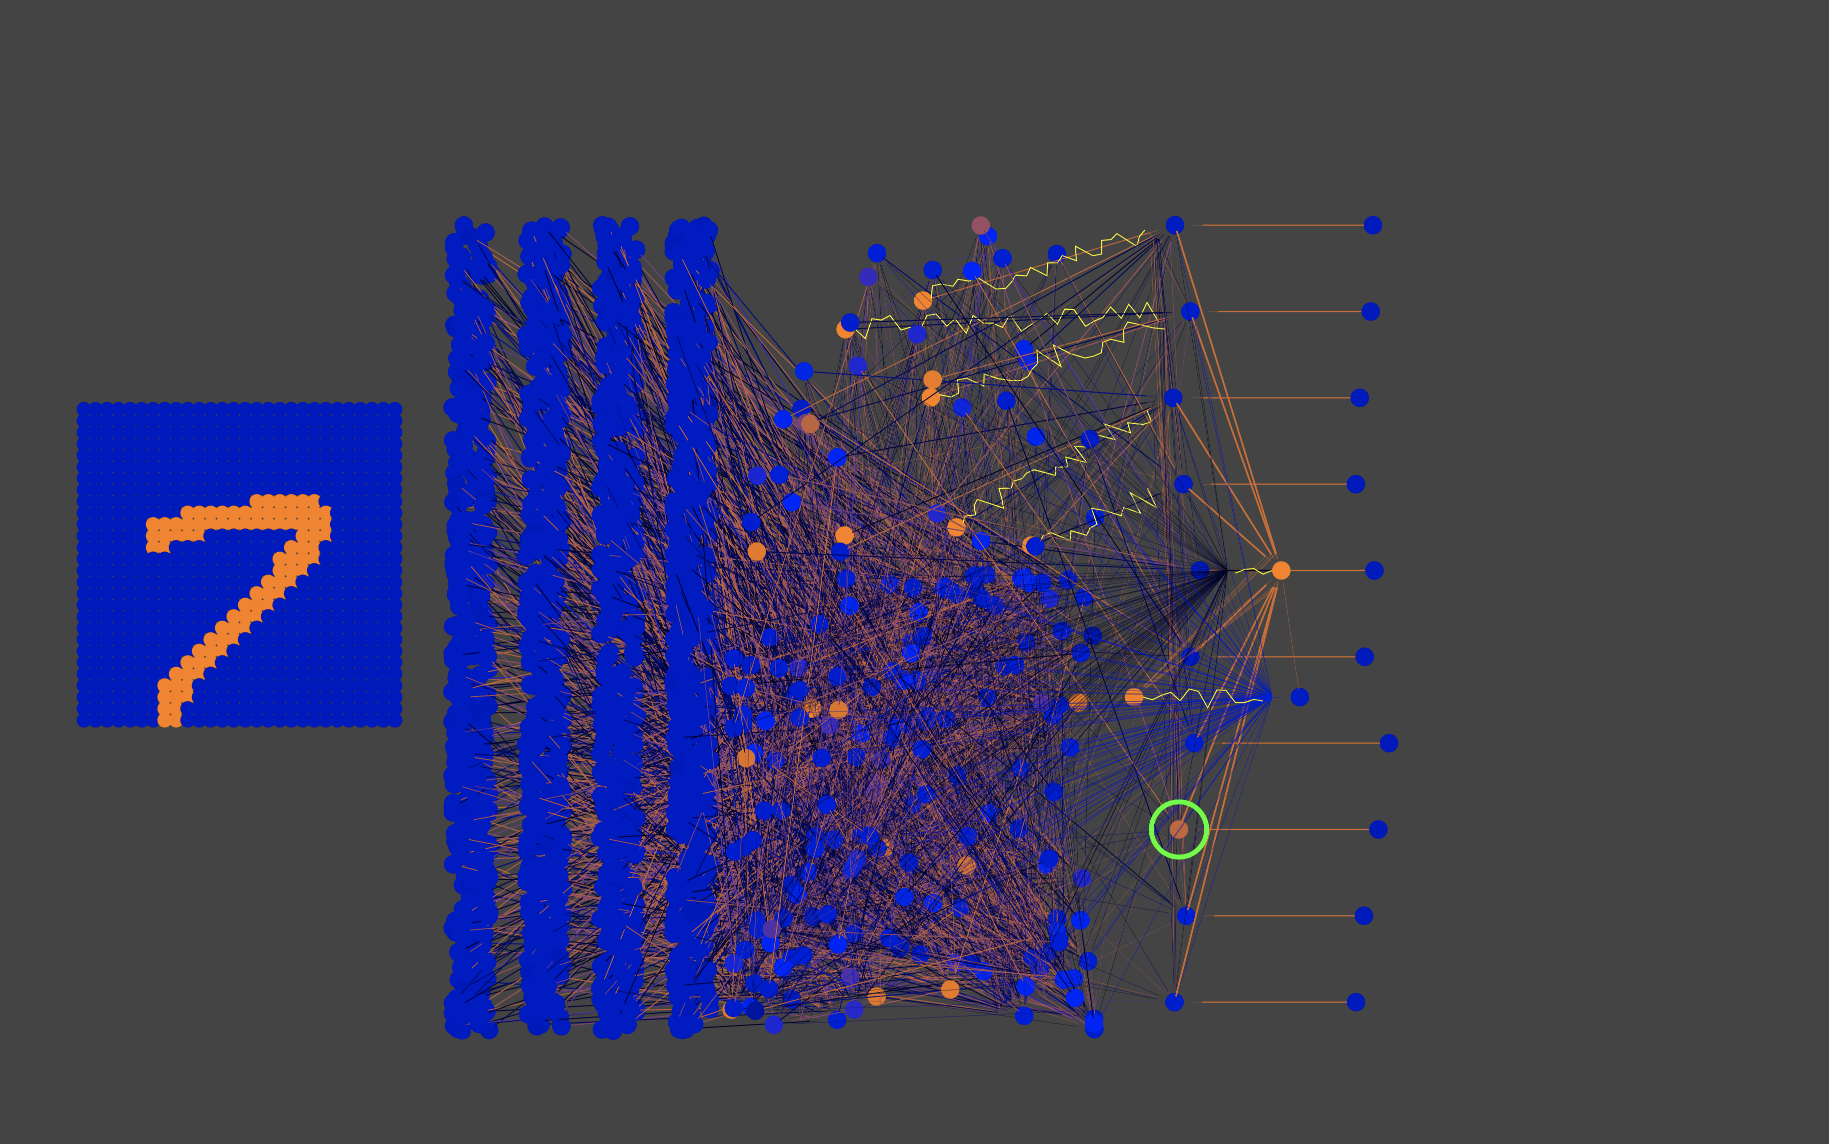
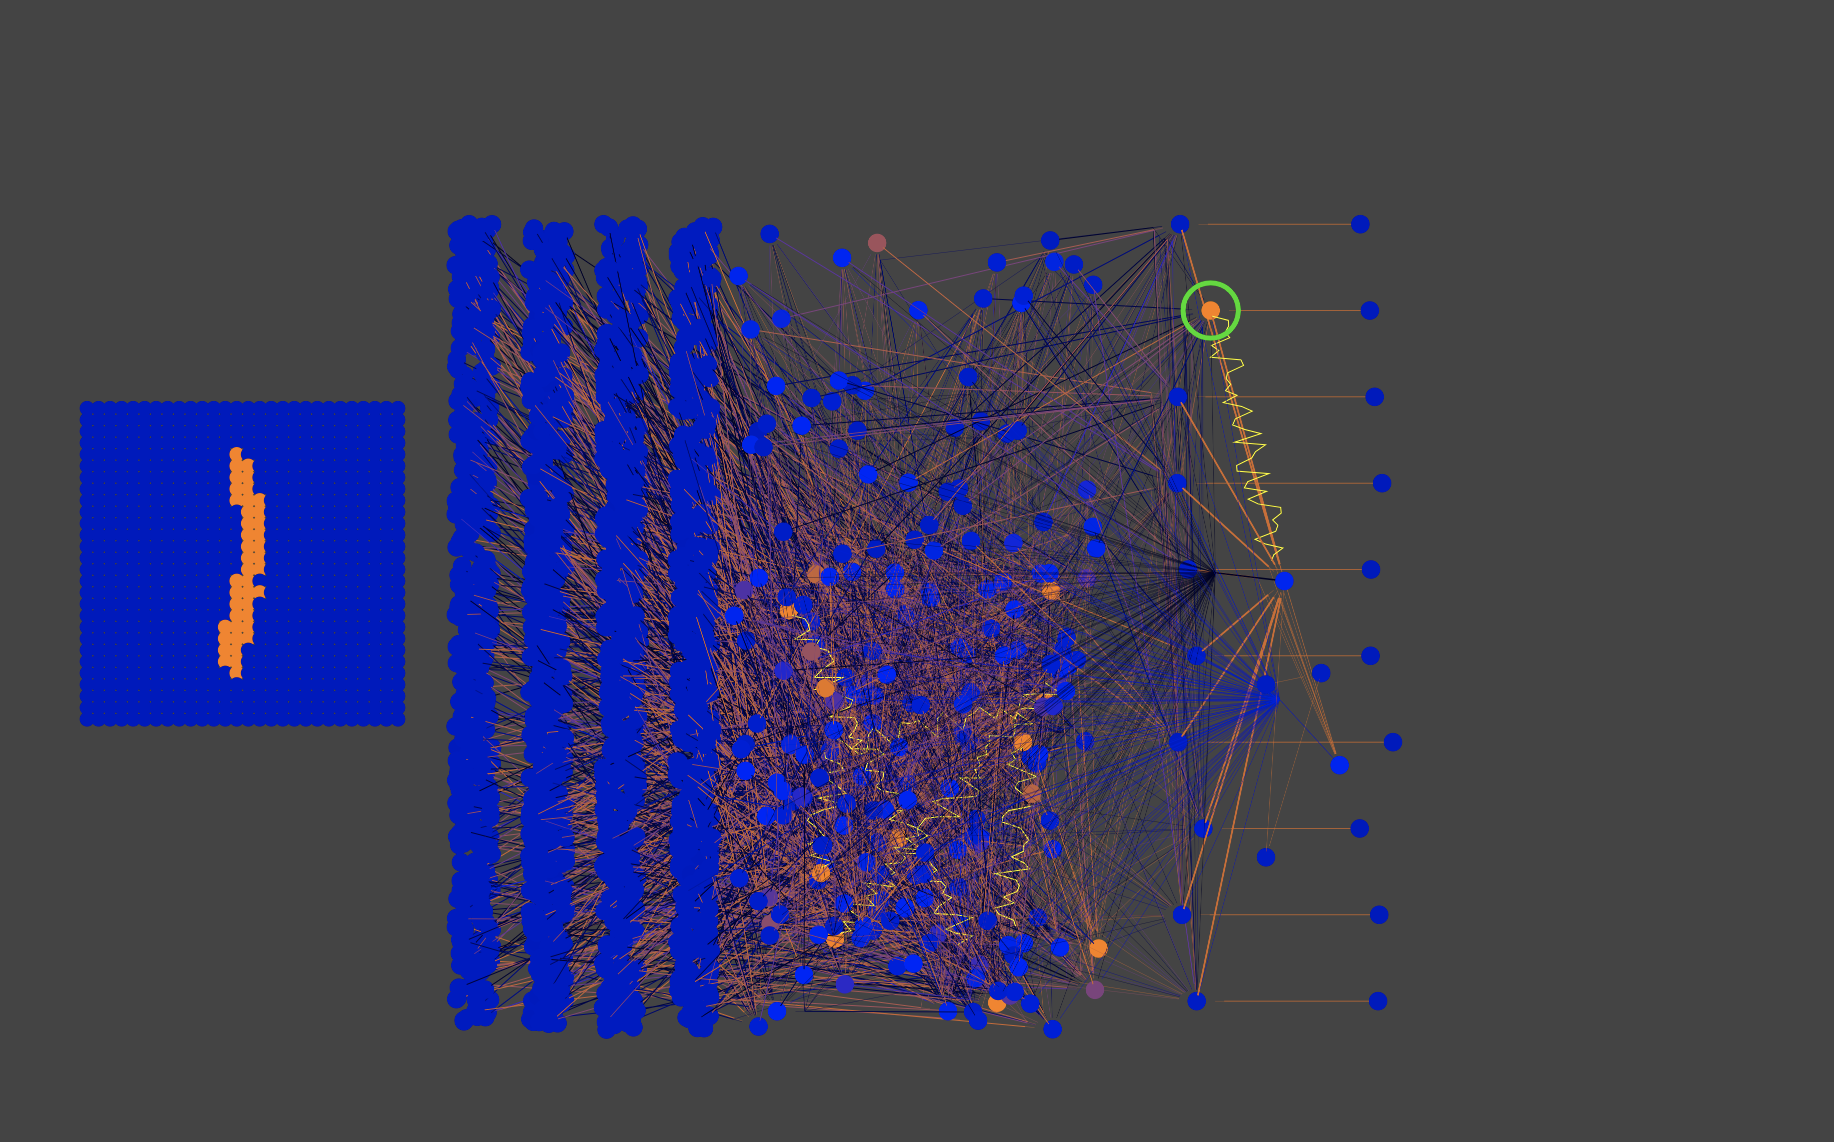
improved neuroplasticity model

diff --git a/public/main.js b/public/main.js
@@ -75,7 +75,7 @@ function drawLightning(ctx, width, height, x0, y0, x1, y1, newLine=true) {
     ctx.stroke();
 }
 
-var art_neurons = [];
+var ann_neurons = [];
 function relu(x) {
     return Math.max(x, 0);
 }
@@ -87,7 +87,7 @@ function relu_deriv(y) {
 
 class ANNNeuron extends Neuron {
     constructor(x, y, layer, index, radius, drawAxon) {
-        super(art_neurons, 1, x, y, radius, drawAxon);
+        super(ann_neurons, 1, x, y, radius, drawAxon);
         this.func = relu;
         this.layer = layer;
         this.index = index;
@@ -354,6 +354,11 @@ function gabaa_open(synapse) {
     synapse.receptors.gabaa[1] = gabaa_open_n;
 }
 
+// neuroplasticity LTP/LTD calculator
+function ltp_ltd(calcium) {
+    return sigmoid(calcium, 1, 1) * Math.pow(calcium-0.5, 2)/(Math.pow(calcium-0.5, 2) + 1) - 0.1;
+}
+
 // extracellular ion concentrations
 const EC_NA = 140; // mM
 const EC_K = 5;
@@ -410,6 +415,7 @@ class BioNeuron extends Neuron {
 
     reset() {
         this.conduction = this.time;
+        this.conducting = false;
         this.value = -70;
         this.na = 2;
         this.k = 44;
@@ -462,7 +468,7 @@ class BioNeuron extends Neuron {
                 // Ca2+/NMDAR-based neuroplasticity of AMPAR
                 let calcium = synapse.receptors.nmda[1];
                 if (calcium > 0.1) {
-                    let adj_ampa = sigmoid(calcium, 1, 1) * Math.pow(calcium-1, 2)/(Math.pow(calcium-1, 2) + 1) - 0.25;
+                    let adj_ampa = ltp_ltd(calcium);
                     if (adj_ampa > 0)
                         synapse.receptors.ampa[0] += (15 - synapse.receptors.ampa[0]) * adj_ampa * this.plastic;
                     else
@@ -485,6 +491,10 @@ class BioNeuron extends Neuron {
         // action potential
         if (this.value > 0 && !this.conducting && this.channels["na"][1] > 0) {
             this.conducting = true;
+            if (this.onFire != null) {
+                this.onFire(this);
+            }
+            bioTimer = BIO_TIMER;
         }
         if (this.conducting) {
             if (this.conduction < this.time) {
@@ -499,12 +509,6 @@ class BioNeuron extends Neuron {
                     let post = this.postsynaptic[i];
                     let index = post.presynaptic[this.id];
                     post.synapses[index].reuptake *= 0.1;
-                }
-
-                bioTimer = BIO_TIMER;
-
-                if (this.onFire != null) {
-                    this.onFire(this);
                 }
 
                 // terminate action potential
@@ -621,7 +625,7 @@ for (var p = 0; p < PINWHEEL.length; p++) {
 var p_temporal = [];
 for (var i = 0; i < 160; i++) {
     let glutamate = Math.cbrt((Math.random() - 0.5)/4.0) + 0.5;
-    let neuron = new BioNeuron(0.4 + 0.2*Math.random(), 0.5 + 0.4*Math.random(), glutamate, 1.0 - glutamate, 0.005, true, 0.05);
+    let neuron = new BioNeuron(0.4 + 0.2*Math.random(), 0.5 + 0.4*Math.random(), glutamate, 1.0 - glutamate, 0.005);
     neuron.channels["na"][0] *= 0.88;
     let connectivity = 10 + Math.floor(10*Math.random());
     for (var j = 0; j < connectivity; j++) {
@@ -629,7 +633,7 @@ for (var i = 0; i < 160; i++) {
         while (connect_to.postsynaptic.indexOf(neuron) != -1) {
             connect_to = visual_cortex_1[Math.floor(PINWHEEL.length * Math.random())][Math.floor(22*22*Math.random())];
         }
-        neuron.connect(connect_to, (70.0+15*Math.random())*connect_to.glutamate / connectivity, 1,
+        neuron.connect(connect_to, (70.0+50*Math.random())*connect_to.glutamate / connectivity, 0,
             70.0*connect_to.gaba / connectivity + Math.random(), true);
     }
     neuron.myelination = 8 + Math.floor(3*Math.random());
@@ -643,21 +647,23 @@ for (var i = 0; i < 80; i++) {
         while (connect_to.postsynaptic.indexOf(neuron) != -1 || connect_to.id == neuron.id || neuron.postsynaptic.indexOf(connect_to) != -1) {
             connect_to = p_temporal[Math.floor(p_temporal.length * Math.random())];
         }
-        neuron.connect(connect_to, 20.0*connect_to.glutamate, 3, 55.0*connect_to.gaba, true, Math.sqrt(connect_to.glutamate+0.4));
+        neuron.connect(connect_to, 25.0*connect_to.glutamate, 3, 55.0*connect_to.gaba, true, Math.sqrt(connect_to.glutamate+0.4));
     }
 }
 
+const TEMPORAL_PLASTICITY = 0.5;
+
 var a_temporal = [];
-for (var i = 0; i < 40; i++) {
+for (var i = 0; i < 50; i++) {
     let glutamate = Math.cbrt((Math.random() - 0.5)/4.0) + 0.5;
-    let neuron = new BioNeuron(0.4 + 0.2*Math.random(), 0.2 + 0.29*Math.random(), glutamate, 1.0 - glutamate, 0.005, true, 0.05);
-    let connectivity = 8 + Math.floor(7*Math.random());
+    let neuron = new BioNeuron(0.4 + 0.2*Math.random(), 0.2 + 0.29*Math.random(), glutamate, 1.0 - glutamate, 0.005, true, TEMPORAL_PLASTICITY);
+    let connectivity = 7 + Math.floor(7*Math.random());
     for (var j = 0; j < connectivity; j++) {
         let connect_to = p_temporal[Math.floor(p_temporal.length * Math.random())];
         while (connect_to.postsynaptic.indexOf(neuron) != -1) {
             connect_to = p_temporal[Math.floor(p_temporal.length * Math.random())];
         }
-        neuron.connect(connect_to, 7*connect_to.glutamate, 7*connect_to.glutamate, 3*connect_to.gaba, true);
+        neuron.connect(connect_to, (2+4*Math.random())*connect_to.glutamate, 5*connect_to.glutamate, 3*connect_to.gaba, true);
     }
     neuron.myelination = 10;
     a_temporal.push(neuron);
@@ -666,7 +672,7 @@ for (var i = 0; i < 40; i++) {
 var wernicke = [];
 for (var i = 0; i < 10; i++) {
     let neuron = new BioNeuron(0.74 + 0.02*Math.random(), 0.2+i*0.075, 1, 0, 0.005);
-    neuron.myelination = 15;
+    neuron.myelination = 5;
     wernicke.push(neuron);
 }
 
@@ -676,18 +682,19 @@ function brocaFire(neuron) {
         bioOutput = broca.indexOf(neuron);
     }
 }
+const BROCA_PLASTICITY = 1.0;
 
 var broca = [];
 for (var i = 0; i < 10; i++) {
-    let neuron = new BioNeuron(0.64 + 0.02*Math.random(), 0.2+i*0.075, 1, 0, 0.005, true, 0.1, brocaFire);
-    for (var j = 0; j < 8; j++) {
+    let neuron = new BioNeuron(0.64 + 0.02*Math.random(), 0.2+i*0.075, 1, 0, 0.005, true, BROCA_PLASTICITY, brocaFire);
+    for (var j = 0; j < 12; j++) {
         let connect_to = a_temporal[Math.floor(a_temporal.length * Math.random())];
         while (connect_to.postsynaptic.length > 6) {
             connect_to = a_temporal[Math.floor(a_temporal.length * Math.random())];
         }
         neuron.connect(connect_to, 0, 6, 0, true);
     }
-    for (var j = 0; j < 8; j++) {
+    for (var j = 0; j < 20; j++) {
         let connect_to = p_temporal[Math.floor(p_temporal.length * Math.random())];
         while (connect_to.postsynaptic.indexOf(neuron) != -1) {
             connect_to = p_temporal[Math.floor(p_temporal.length * Math.random())];
@@ -699,34 +706,41 @@ for (var i = 0; i < 10; i++) {
     broca.push(neuron);
 }
 
-let stopSpeech = new BioNeuron(0.7, 0.5, 0, 1, 0.005);
+let stopSpeech = new BioNeuron(0.7, 0.51, 0, 1, 0.005);
 stopSpeech.myelination = 25;
 stopSpeech.channels["k"][0] *= 1.1;
-broca[4].connect(stopSpeech, 0, 0, 25, true, 0.01);
+
+broca[4].connect(stopSpeech, 0, 0, 25, true, 0.03);
 for (var i = 0; i < 10; i++) {
     stopSpeech.connect(broca[i], 10, 5, 0, true);
     if (i != 4)
         broca[i].connect(stopSpeech, 0, 0, 25, false, 0.03);
 }
 
-let speechFeedback = new BioNeuron(0.62, 0.61, 1, 1, 0.005);
-let speechFeedback2 = new BioNeuron(0.71, 0.61, 1, 0, 0.005);
+let speechFeedback = new BioNeuron(0.73, 0.67, 1, 1, 0.005);
+let speechFeedback2 = new BioNeuron(0.69, 0.60, 1, 0, 0.005);
+let speechFeedback3 = new BioNeuron(0.72, 0.59, 1, 0, 0.005);
+let speechFeedback4 = new BioNeuron(0.69, 0.75, 1, 0, 0.005);
 speechFeedback2.connect(speechFeedback, 15, 5, 0, true);
-stopSpeech.connect(speechFeedback2, 15, 5, 0);
+speechFeedback3.connect(speechFeedback2, 15, 5, 0, true);
+speechFeedback4.connect(speechFeedback3, 15, 5, 0, true);
+stopSpeech.connect(speechFeedback4, 15, 5, 0);
 speechFeedback.myelination = 1;
 speechFeedback2.myelination = 0;
+speechFeedback3.myelination = 0;
+speechFeedback4.myelination = 0;
 
 for (var i = 0; i < 10; i++) {
     speechFeedback.connect(broca[i], 10, 5, 0);
     broca[i].connect(speechFeedback, 0, 0, 15);
 }
 for (var i = 0; i < p_temporal.length; i += 2) {
-    p_temporal[i].connect(speechFeedback, 0, 0, 25, false, 0.03);
-    p_temporal[i].connect(stopSpeech, 0, 0, 15, false, 0.03);
+    p_temporal[i].connect(speechFeedback, 0, 0, 30, false, 0.03);
+    p_temporal[i].connect(stopSpeech, 0, 0, 20, false, 0.03);
 }
 for (var i = 0; i < a_temporal.length; i += 2) {
-    a_temporal[i].connect(speechFeedback, 0, 0, 25, false, 0.03);
-    a_temporal[i].connect(stopSpeech, 0, 0, 15, false, 0.03);
+    a_temporal[i].connect(speechFeedback, 0, 0, 30, false, 0.03);
+    a_temporal[i].connect(stopSpeech, 0, 0, 20, false, 0.03);
 }
 
 
@@ -798,8 +812,8 @@ function drawAnnDiagram() {
     var ctx = canvas2.getContext('2d');
     ctx.fillStyle = "#444444";
     ctx.fillRect(0, 0, canvas2.width, canvas2.height);
-    for (var i = 0; i < art_neurons.length; i++) {
-        art_neurons[i].draw(ctx, canvas2.width, canvas2.height);
+    for (var i = 0; i < ann_neurons.length; i++) {
+        ann_neurons[i].draw(ctx, canvas2.width, canvas2.height);
     }
     var maxDigit = 0;
     var outputSum = 0;
@@ -811,7 +825,7 @@ function drawAnnDiagram() {
     if (outputSum > 0) {
         ctx.strokeStyle = "#FF0000";
         if (maxDigit == checkANNOutput)
-            ctx.strokeStyle = "#00FF00";
+            ctx.strokeStyle = "#00DD00";
         ctx.beginPath();
         ctx.arc(0.9 * canvas2.width, (0.05 + maxDigit * 0.1) * canvas2.height, canvas2.width*0.02, 0, 2*Math.PI);
         ctx.stroke();
@@ -840,7 +854,7 @@ function drawBioDiagram() {
             circleCell = checkBioOutput;
             ctx.strokeStyle = "#FF5500";
         } else if (bioOutput == checkBioOutput) {
-            ctx.strokeStyle = "#00FF00";
+            ctx.strokeStyle = "#00DD00";
         }
         ctx.beginPath();
         ctx.arc(broca[circleCell].x * canvas1.width, broca[circleCell].y * canvas1.height, canvas1.width * 0.015, 0, 2*Math.PI);

diff --git a/index.html b/index.html
@@ -69,7 +69,6 @@ function fastMnist(digit, index) {
 function bioMnist(digit, index, train=true) {
   input = getMnist(digit, index);
   checkBioOutput = digit;
-  console.log(checkBioOutput);
   runBioSample(input, train);
 }
 </script>
